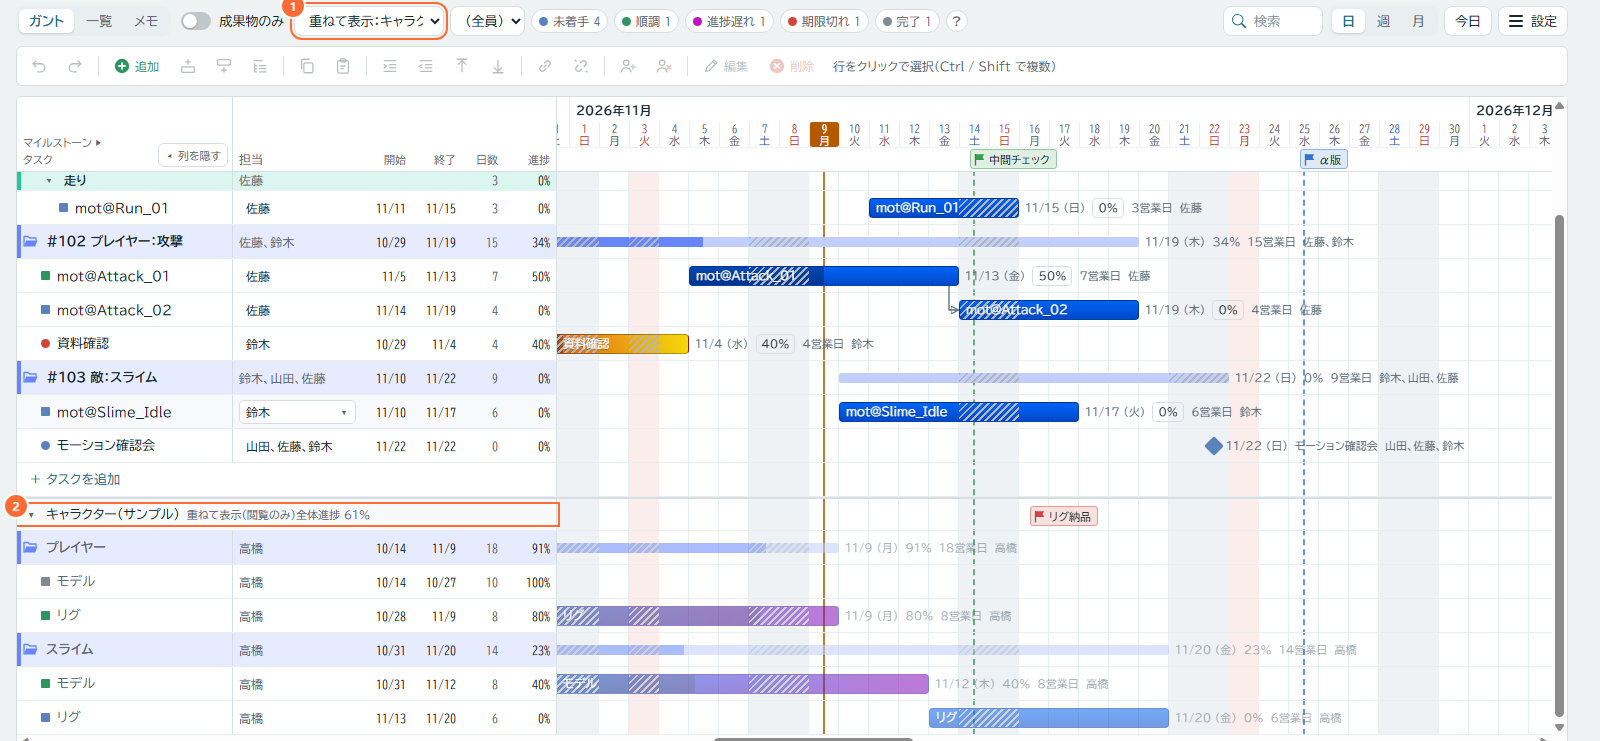
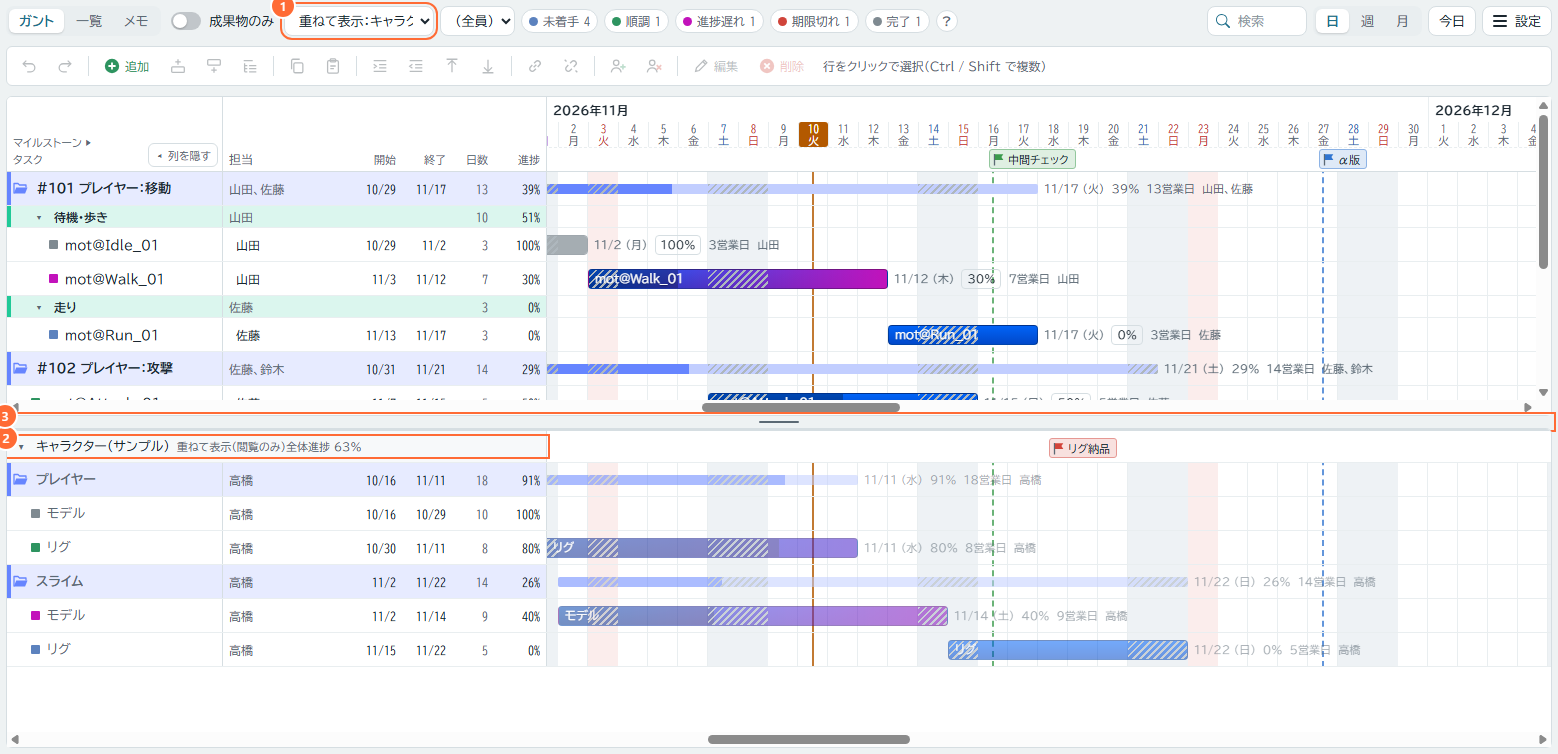
v0.0.16
from be76bc3

diff --git a/js/view.js b/js/view.js
@@ -168,11 +168,11 @@ function refRows(rp,all,rms,X,XH,dw){
 function render(){
   const p=projects[curId];if(p&&H(p.id).last==null)H(p.id).last=snap(p); // undo starts from the state first shown
   renderToolbar();renderTools();syncForm();
-  const chart=$("chart");
+  const chart=$("chart");if(!store||!p||view.memo)splitOn(false);
   if(!store){chart.innerHTML=`<div class="empty"><i class="spin"></i>読み込み中…</div>`;return}
   if(!p){chart.innerHTML=`<div class="empty"><div>プロジェクトがまだありません。</div><button class="btn pri" type="button" data-act="newproj">プロジェクトを作成</button></div>`;return}
   chart.classList.toggle("memo",view.memo);if(view.memo)return renderMemo(p);
-  const all=derive(p);
+  const all=derive(p);if(sel.size){const ids=new Set(all.map(r=>r.id));sel.forEach(id=>{if(!ids.has(id))sel.delete(id)})} // a kept selection (v0.0.16) whose task is gone
   const sc=view.scale, list=view.list, dw=sc==="day"?30:sc==="week"?12:4;
   const rp=list?null:refOf(),ra=rp?derive(rp):[],rms=(rp?.milestones||[]).filter(m=>m&&isDay(m.date));ra.forEach(r=>r.ref=1); // overlay (v0.0.10); r.ref: no progress button in lab()
   let mn=TODAY,mx=TODAY;[...all,...ra].forEach(r=>{mn=Math.min(mn,D(r.start));mx=Math.max(mx,D(r.end))});[...(p.milestones||[]),...rms].forEach(m=>{mn=Math.min(mn,D(m.date));mx=Math.max(mx,D(m.date))});
@@ -250,7 +250,6 @@ function render(){
       <div class="tl">${mark}</div></div>`;
   });
   if(!readOnly)rowsHtml+=`<div class="row addrow"><div class="lc" data-act="add"><div class="c-name" style="padding-left:12px">＋ タスクを追加</div></div><div class="tl"></div></div>`;
-  if(rp)rowsHtml+=refRows(rp,ra,rms,X,XH,dw);
 
   visOrder=vis;
   let lk="";const H0=75;
@@ -258,7 +257,9 @@ function render(){
     const x1=XH(A.h1+1),x2=XH(B.h0),up=B.i<A.i,y1=H0+A.y+(up?-10:10),y2=H0+B.y,xv=Math.min(x1-6,x2-10);
     lk+=`<path class="${B.h0<=A.h1?"bad":""}" d="M${xv} ${y1}V${y2}H${x2-1}" marker-end="url(#lk-arrow)"/>`;}));
   const linksSvg=lk?`<svg class="links" width="${tw}" height="${H0+rowY+RH}"><defs><marker id="lk-arrow" viewBox="0 0 10 10" refX="9" refY="5" markerWidth="6" markerHeight="6" orient="auto"><path d="M0 0L10 5L0 10z" fill="var(--ink2)" stroke="none"/></marker></defs>${lk}</svg>`:"";
-  const sl=chart.scrollLeft,st=chart.scrollTop;
+  const cr=$("chartRef"),sl=chart.scrollLeft,st=chart.scrollTop,st2=cr.scrollTop;splitOn(!!rp);
+  cr.classList.toggle("noid",!view.ids);cr.classList.toggle("narrow",!view.cols);
+  cr.innerHTML=rp?`<div class="grid" style="--tw:${tw}px;width:calc(var(--lc) + ${tw}px)"><div class="bgl" style="${bgStyle}">${bg}</div>${refRows(rp,ra,rms,X,XH,dw)}</div>`:""; // the lower pane: no date header, the upper one's is shared
   chart.classList.toggle("list",list); // 一覧: the same table without the timeline (tempo.css)
   chart.classList.toggle("noid",!view.ids);
   chart.classList.toggle("narrow",!view.cols); // ガント: 担当・開始・終了・日数・進捗 folded away, the task names only (v0.0.14)
@@ -266,9 +267,14 @@ function render(){
     <div class="bgl" style="${bgStyle}">${bg}</div>
     <div class="hdr"><div class="corner"><div class="c-name" style="flex:1;flex-direction:column;align-items:flex-start;gap:6px">${lockBar(p)}<small style="color:var(--ink2);font-size:11px">マイルストーン ▶</small>タスク</div><div class="c-fold"><button type="button" class="fold" data-cols title="${view.cols?"担当・開始・終了・日数・進捗の列を隠して、タイムラインを広くします":"担当・開始・終了・日数・進捗の列を表示します"}" aria-expanded="${view.cols}">${view.cols?"◂ 列を隠す":"列を表示 ▸"}</button></div><div class="c-as"><i class="lwh lwn" title="ドラッグでタスク列の幅を変更"></i>担当</div><div class="c-d">開始</div><div class="c-d">終了</div><div class="c-n" title="営業日">日数</div><div class="c-p">進捗</div><div class="c-id"><button type="button" class="tg" data-ids title="${view.ids?"ID の列を折りたたむ":"ID の列を表示"}" aria-label="ID の列の表示切り替え">${view.ids?"◂":"▸"}</button><span>ID</span></div><div class="c-st">状況</div><div class="c-done">完了</div><i class="lwh" title="ドラッグで幅を変更"></i></div><div class="ht" id="ht"><div class="band"></div>${top}${bot}${hint}${flags}</div></div>
     ${rowsHtml}${linksSvg}</div>`;
-  if(scrolledFor!==curId+sc+list){scrolledFor=curId+sc+list;scrollInitial()}else{chart.scrollLeft=sl;chart.scrollTop=st;whoGone()}
-  lockMove(chart);
+  if(scrolledFor!==curId+sc+list){scrolledFor=curId+sc+list;if(stPos){chart.scrollLeft=stPos[0];chart.scrollTop=stPos[1];cr.scrollTop=stPos[2];stPos=null}else scrollInitial()} // stPos: where it was before a reload / a switch of project (v0.0.16)
+  else{chart.scrollLeft=sl;chart.scrollTop=st;cr.scrollTop=st2}
+  cr.scrollLeft=chart.scrollLeft;whoGone();
+  lockMove(chart);stSave();
 }
+// overlay in two panes (v0.0.16): the lower pane and its divider show only while a project is overlaid on the chart; the upper pane's share is kept in mg.split
+const splitR=()=>{const v=+ls.get("mg.split");return v>=.15&&v<=.85?v:.5};
+function splitOn(on){const w=$("charts");w.classList.toggle("split",on);$("refBar").hidden=$("chartRef").hidden=!on;if(on){w.style.setProperty("--sp",splitR());$("refBar").setAttribute("aria-valuenow",Math.round(splitR()*100))}else $("chartRef").innerHTML=""}
 // the lock switch changed since the last drawing: lockBar drew its old state, now it moves
 function lockMove(c){const lb=c.querySelector(".sw.lock");if(lb&&lb.getAttribute("aria-pressed")!==lb.dataset.on){void lb.offsetWidth;lb.setAttribute("aria-pressed",lb.dataset.on)}}
 // today (or the project's start) about a quarter of the way into the visible timeline, so the days just before it show too (v0.0.13; was 120 px)
@@ -277,6 +283,6 @@ function scrollToToday(){if(!range)return;const c=$("chart");c.scrollLeft=Math.m
 function scrollInitial(){const p=projects[curId],o=p&&overall(p);if(!o||!o.rows.length||!range)return scrollToToday();
   const target=(TODAY>=o.mn-7&&TODAY<=o.mx+7)?TODAY:o.mn;$("chart").scrollLeft=Math.max(0,(target-range.a)*range.dw-lead());whoGone()}
 // a bar label whose start has scrolled away under the task table is hidden: half a label tells nothing (v0.0.13). Run after drawing and on scroll (ui.js)
-function whoGone(){const c=$("chart"),s=c.scrollLeft;c.querySelectorAll(".tl .who").forEach(w=>w.classList.toggle("gone",parseFloat(w.style.left)<s));
+function whoGone(){const c=$("chart"),s=c.scrollLeft,ps=[c,$("chartRef")];ps.forEach(p=>p.querySelectorAll(".tl .who").forEach(w=>w.classList.toggle("gone",parseFloat(w.style.left)<s)));
   // a month label / a bar's name sticks right of the task table (v0.0.14); where its month or bar shows too little of it, it would be cut: hidden too. Read all, then write
-  const e=c.querySelector(".corner")?.getBoundingClientRect().right;if(e==null)return;const ls=[...c.querySelectorAll("#ht .hc.top span,.tl .bl")],cut=ls.map(l=>l.getBoundingClientRect().left<e-1);ls.forEach((l,i)=>l.classList.toggle("gone",cut[i]))}
+  const e=c.querySelector(".corner")?.getBoundingClientRect().right;if(e==null)return;const ls=ps.flatMap(p=>[...p.querySelectorAll("#ht .hc.top span,.tl .bl")]),cut=ls.map(l=>l.getBoundingClientRect().left<e-1);ls.forEach((l,i)=>l.classList.toggle("gone",cut[i]))}

diff --git a/js/ui.js b/js/ui.js
@@ -1,6 +1,6 @@
 // Interactions: drawer forms, members, milestones, popups, context menu, drag & drop, selection, toolbar, keyboard.
 /* ---------- actions ---------- */
-function setCur(id){leaveTask();leaveMemo();log("project",{p:id});if(sh.mine&&sh.mine!==id)shEnd();lkArmed=false;lkWas="";view.q=$("qIn").value="";curId=id;ls.set("mg.cur",id||"");closeDrawer();render()}
+function setCur(id){leaveTask();leaveMemo();log("project",{p:id});if(sh.mine&&sh.mine!==id)shEnd();lkArmed=false;lkWas="";view.q=$("qIn").value="";stSave();curId=id;ls.set("mg.cur",id||"");stLoad();closeDrawer();render()} // stSave / stLoad: each project's folding, selection, scroll (v0.0.16)
 function newProject(){
   if(storeRO)return;
   const id=uid();projects[id]={id,name:"新しいプロジェクト",tasks:[]};setCur(id);save(projects[id]);openProject();
@@ -320,8 +320,19 @@ $("msDel").addEventListener("click",e=>{const b=e.currentTarget;if(!b.classList.
   const p=projects[curId];p.milestones=(p.milestones||[]).filter(v=>v.id!==msEdit.id);closeMs();save(p);toast("削除しました")});
 document.addEventListener("keydown",e=>{if(e.key==="Escape"&&!pop.hidden)closeMs()});
 document.addEventListener("pointerdown",e=>{if(!pop.hidden&&!pop.contains(e.target)&&!e.target.closest("#ht"))closeMs()});
-const chart=$("chart");
-let whoT=0;chart.addEventListener("scroll",()=>{if(!whoT)whoT=requestAnimationFrame(()=>{whoT=0;whoGone()})},{passive:true});
+const chart=$("chart"),chartRef=$("chartRef");
+let whoT=0,stT=0;const onScroll=(a,b)=>()=>{if(!b.hidden&&b.scrollLeft!==a.scrollLeft)b.scrollLeft=a.scrollLeft; // two panes (v0.0.16): left-right in step, up-down each on its own
+  if(!whoT)whoT=requestAnimationFrame(()=>{whoT=0;whoGone()});clearTimeout(stT);stT=setTimeout(stSave,300)}; // stSave: the scroll position is kept (v0.0.16)
+chart.addEventListener("scroll",onScroll(chart,chartRef),{passive:true});chartRef.addEventListener("scroll",onScroll(chartRef,chart),{passive:true});
+chartRef.addEventListener("click",e=>{const rt=e.target.closest("[data-rtg]");if(rt){const id=rt.dataset.rtg;refFold.has(id)?refFold.delete(id):refFold.add(id);render()}}); // the overlay's rows: folding is all they do
+// the divider between the two panes: drag = the upper pane's share (15–85 %), kept in this browser; double-click = half and half
+const refBar=$("refBar"),setSplit=r=>{r=Math.min(.85,Math.max(.15,r));ls.set("mg.split",String(r));$("charts").style.setProperty("--sp",r);refBar.setAttribute("aria-valuenow",Math.round(r*100))};
+refBar.addEventListener("pointerdown",e=>{if(e.button)return;refBar.setPointerCapture(e.pointerId);refBar.classList.add("on");e.preventDefault()});
+refBar.addEventListener("pointermove",e=>{if(!refBar.classList.contains("on"))return;const b=$("charts").getBoundingClientRect();setSplit((e.clientY-b.top)/b.height)});
+refBar.addEventListener("lostpointercapture",()=>refBar.classList.remove("on"));
+refBar.addEventListener("dblclick",()=>setSplit(.5));
+refBar.addEventListener("keydown",e=>{const d={ArrowUp:-.05,ArrowDown:.05}[e.key];if(d){e.preventDefault();setSplit(splitR()+d)}}); // without a drag (docs/ui-checklist.md)
+addEventListener("pagehide",stSave);
 chart.addEventListener("click",e=>{
   if(e.target.closest("[data-pg]"))return;
   if(e.target.closest("[data-cols]")){view.cols=!view.cols;ls.set("mg.cols",view.cols?"":"0");render();return} // ガント: fold / unfold 担当・開始・終了・日数・進捗
@@ -397,9 +408,9 @@ document.addEventListener("keydown",e=>{if(e.key==="Escape"&&pgEdit)closePg()});
 const ctx=$("ctxMenu");let ctxId=null;
 // a task icon held under the mouse for 0.2 s: the whole picture beside it (v0.0.12)
 let icoT=0;const icoOff=()=>{clearTimeout(icoT);$("icoPop").hidden=true};
-chart.addEventListener("mouseover",e=>{const i=e.target.closest(".ico");if(!i)return;icoOff();icoT=setTimeout(()=>{const c=imgs[i.dataset.img];if(!c?.url||!i.isConnected)return;const p=$("icoPop"),b=i.getBoundingClientRect();
-  p.firstChild.src=c.url;p.hidden=false;const ph=c.h*Math.min(1,256/c.w,256/c.h)+10;p.style.left=b.right+8+"px";p.style.top=Math.max(8,Math.min(innerHeight-ph-8,b.top+b.height/2-ph/2))+"px"},200)});
-chart.addEventListener("mouseout",e=>{if(e.target.closest(".ico"))icoOff()});
+const icoOver=e=>{const i=e.target.closest(".ico");if(!i)return;icoOff();icoT=setTimeout(()=>{const c=imgs[i.dataset.img];if(!c?.url||!i.isConnected)return;const p=$("icoPop"),b=i.getBoundingClientRect();
+  p.firstChild.src=c.url;p.hidden=false;const ph=c.h*Math.min(1,256/c.w,256/c.h)+10;p.style.left=b.right+8+"px";p.style.top=Math.max(8,Math.min(innerHeight-ph-8,b.top+b.height/2-ph/2))+"px"},200)};
+[chart,chartRef].forEach(c=>{c.addEventListener("mouseover",icoOver);c.addEventListener("mouseout",e=>{if(e.target.closest(".ico"))icoOff()})}); // the overlay's icons too
 chart.addEventListener("contextmenu",e=>{const o=e.target.closest("[data-open]");if(!o||readOnly||e.target.closest("input"))return;e.preventDefault();
   ctxId=o.dataset.open;if(!sel.has(ctxId))selectRow(ctxId);
   const r=derive(projects[curId]).find(x=>x.id===ctxId);$("ctxColor").hidden=!r?.parent; // 色 only for parents
@@ -638,7 +649,7 @@ function selectRow(id,e){
   else sel=new Set([id]);
   lastSel=id;delArmed=false;paintSel();
 }
-function paintSel(){document.querySelectorAll("#chart .row[data-id]").forEach(r=>r.classList.toggle("sel",sel.has(r.dataset.id)||r.dataset.id===editingId));renderTools()}
+function paintSel(){document.querySelectorAll("#chart .row[data-id]").forEach(r=>r.classList.toggle("sel",sel.has(r.dataset.id)||r.dataset.id===editingId));renderTools();stSave()}
 function blockEnd(ts,i){let j=i;while(j+1<ts.length&&(ts[j+1].level||0)>(ts[i].level||0))j++;return j}
 const deep=(ts,d)=>Math.max(...ts.map(t=>(t.level||0)+d))>3; // these tasks, moved d levels in, would pass the 4th level
 function selIdx(p){return p.tasks.map((t,i)=>sel.has(t.id)?i:-1).filter(i=>i>=0)}

diff --git a/guide.html b/guide.html
@@ -272,9 +272,10 @@ ol.steps>li{margin-bottom:6px}
 <p><b>成果物のタグの付け方</b>：タスクを選んで（複数可）右クリック →「成果物にする」。または編集パネルの「成果物」にチェック。子タスクの一括追加では「成果物として追加」に最初からチェックが入っています。</p>
 
 <h2 id="overlay">7. 重ねて表示</h2>
-<p>ほかのチームのプロジェクトを、自分のプロジェクトの下に<b>同じ日付の目盛りで</b>重ねて表示します。たとえばモーションのプロジェクトを開いてキャラクターのプロジェクトを重ねると、「リグがまだ終わっていないのにモーションを始める予定になっている」といったずれが見つかります。</p>
-<figure><img src="guide/overlay.png" alt="重ねて表示。1 重ねて表示のプルダウン、2 重ねたプロジェクトの見出し" width="1600" height="741" loading="lazy"><figcaption><span class="n">1</span>「重ねて表示」で相手のプロジェクトを選ぶ　<span class="n">2</span>見出しに名前と全体進捗。相手のマイルストーンもこの行に出ます</figcaption></figure>
+<p>ほかのチームのプロジェクトを、自分のプロジェクトの下に<b>同じ日付の目盛りで</b>並べて表示します。たとえばモーションのプロジェクトを開いてキャラクターのプロジェクトを重ねると、「リグがまだ終わっていないのにモーションを始める予定になっている」といったずれが見つかります。</p>
+<figure><img src="guide/overlay.png" alt="重ねて表示。1 重ねて表示のプルダウン、2 重ねたプロジェクトの見出し、3 上下の境目" width="1558" height="754" loading="lazy"><figcaption><span class="n">1</span>「重ねて表示」で相手のプロジェクトを選ぶ　<span class="n">2</span>見出しに名前と全体進捗。相手のマイルストーンもこの行に出ます　<span class="n">3</span>境目をドラッグして上下の高さを変える</figcaption></figure>
 <ul>
+  <li>画面が<b>上下に分かれ</b>、上が自分のプロジェクト、下が相手のプロジェクトです。上下それぞれ別にスクロールでき、左右（日付）のスクロールは一緒に動きます。境目はドラッグか、クリックして ↑↓ キーで動かせます（ダブルクリックで半分に戻ります）。高さは自分のブラウザに記憶されます。</li>
   <li>相手のタスクは薄い色で、<b>閲覧のみ</b>です（選択・編集・ドラッグはできません）。親タスクは折りたためます。見出しの ▾ で全体を折りたためます。</li>
   <li>「成果物のみ」をオンにすると、相手も成果物だけになります。担当者の絞り込み、状態ラベル、検索は相手には効きません。</li>
   <li>自分のプロジェクトの全体進捗や Excel には含まれません。「一覧」では表示されません。</li>

diff --git a/js/core.js b/js/core.js
@@ -57,6 +57,15 @@ const refOf=()=>{const id=refMap()[curId];return typeof id==="string"&&id!==curI
 const pendingIds=new Set(), timers={}, retry={}; // retry: id → saves of it that failed in a row (flush): the change stays on screen and is tried again
 let sel=new Set(), lastSel=null, clip=null, delArmed=false, lkArmed=false, lkWas=""; // lkArmed: someone else's lock pressed once; lkWas: the lock switch as last drawn ("true" / "false", view.js lockBar)
 let chain=Promise.resolve();
+/* page state per project, this browser only (v0.0.16): the folded parents (here and in the overlay), the selection and where the chart was scrolled —
+   back after a reload or a switch of project. mg.st.<project id> = {f, r, s, x, y, y2 (the overlay pane)}; not project data, so nobody else's screen changes and no lock is needed */
+let stPos=null; // scroll to put back on the project's first drawing
+function stLoad(){let o={};try{o=JSON.parse(ls.get("mg.st."+curId))||{}}catch(e){}const a=v=>Array.isArray(v)?v.map(String):[];
+  collapsed=new Set(a(o.f));refFold=new Set(a(o.r));sel=new Set(a(o.s));stPos=Number.isFinite(o.x)&&Number.isFinite(o.y)?[o.x,o.y,Number.isFinite(o.y2)?o.y2:0]:null}
+function stSave(){if(!curId||!store)return;let o={};try{o=JSON.parse(ls.get("mg.st."+curId))||{}}catch(e){}const c=$("chart");
+  if(!view.memo&&c.querySelector(".grid")){o.x=c.scrollLeft;o.y=c.scrollTop;if(!$("chartRef").hidden)o.y2=$("chartRef").scrollTop} // メモ scrolls its own page: keep the chart's
+  o.f=[...collapsed];o.r=[...refFold];o.s=[...sel];ls.set("mg.st."+curId,JSON.stringify(o))}
+stLoad();
 
 // share of the task's own workdays already past (to yesterday), 0–1
 function elapsed(t){return TODAY<D(t.start)?0:Math.min(1,bizH(hs(t),2*TODAY-1)/Math.max(.5,bizH(hs(t),he(t))))}
@@ -164,7 +173,7 @@ function onData(all){
     else{next[id]=p;if(h){h.last=snap(p);if(store===backends.local)h.u=[],h.r=[]}}}); // changed elsewhere: Ctrl+Z here must not take that change away. Not in the cloud: its echo of my own save may come back with keys in another order
   pendingIds.forEach(id=>{if(projects[id])next[id]=projects[id]; else delete next[id]});
   projects=next;
-  if(!projects[curId])curId=Object.keys(projects)[0]||null;
+  if(!projects[curId]){curId=Object.keys(projects)[0]||null;stLoad()}
   if(!busy())render();
 }
 // a short message at the bottom: read out by screen readers (role=status); a long one stays longer so it can be read through (v0.0.13: 3 s / 5 s)

diff --git a/Tempo.html b/Tempo.html
@@ -12,7 +12,7 @@
 
 <div class="app">
   <div class="topbar">
-    <div class="brand"><i aria-hidden="true"><b></b><b style="--n:1"></b><b style="--n:2"></b></i><span role="img" aria-label="Tempo"><b style="--n:3">T</b><b style="--n:4">e</b><b style="--n:5">m</b><b style="--n:6">p</b><b style="--n:7">o</b></span><small class="ver">v0.0.15</small></div>
+    <div class="brand"><i aria-hidden="true"><b></b><b style="--n:1"></b><b style="--n:2"></b></i><span role="img" aria-label="Tempo"><b style="--n:3">T</b><b style="--n:4">e</b><b style="--n:5">m</b><b style="--n:6">p</b><b style="--n:7">o</b></span><small class="ver">v0.0.16</small></div>
     <select id="projSel" aria-label="プロジェクト"></select>
     <div class="stats" id="stats"></div>
     <span class="spacer"></span>
@@ -74,7 +74,11 @@
     <button class="tb txt bad" type="button" data-cmd="del" title="削除（Delete を 2 回）" aria-label="削除"><svg viewBox="0 0 20 20"><circle cx="10" cy="10" r="8" fill="currentColor"/><path d="M7 7l6 6M13 7l-6 6" stroke="#fff" stroke-width="2"/></svg><span>削除</span></button>
     <span class="selinfo" id="selInfo"></span>
   </div>
-  <div class="chart" id="chart"><div class="empty"><i class="spin"></i>読み込み中…</div></div>
+  <div class="charts" id="charts">
+    <div class="chart" id="chart"><div class="empty"><i class="spin"></i>読み込み中…</div></div>
+    <div class="refbar" id="refBar" role="separator" aria-orientation="horizontal" aria-label="上下の境目" tabindex="0" title="ドラッグか ↑↓ キーで上下の高さを変更（ダブルクリックで半分に戻す）" hidden></div>
+    <div class="chart" id="chartRef" hidden></div>
+  </div>
 </div>
 
 <datalist id="members"></datalist>

diff --git a/css/tempo.css b/css/tempo.css
@@ -126,6 +126,14 @@ input[type="range"]{accent-color:var(--accent)}
 
 /* chart */
 .chart{flex:1;min-height:0;overflow:auto;background:var(--panel);border:1px solid var(--line);border-radius:6px;position:relative}
+/* overlay in two panes (v0.0.16, view.js splitOn): this project above, the overlaid one below, each scrolling up and down on its own; the divider sets the share (mg.split) */
+.charts{flex:1;min-height:0;display:flex;flex-direction:column}
+.charts.split>.chart{flex:var(--sp) 1 0;scrollbar-gutter:stable} /* the same width on both: their left-right scrolls stay in step */
+.charts.split>#chartRef{flex-grow:calc(1 - var(--sp))}
+.refbar{flex:none;height:12px;cursor:row-resize;touch-action:none;position:relative}
+.refbar::before{content:"";position:absolute;left:calc(50% - 20px);top:5px;width:40px;height:2px;border-radius:1px;background:var(--ink2)}
+.refbar:hover::before,.refbar.on::before,.refbar:focus-visible::before{background:var(--accent)}
+#chartRef .row.refhd{position:sticky;top:0;z-index:5;background:var(--panel)} /* the overlaid project's name stays in sight */
 .grid{position:relative;min-width:100%}
 .chart{--lc:var(--lw)}
 .chart.narrow:not(.list){--lc:max(160px,calc(var(--lw) - 324px))} /* 担当 130 + 開始・終了 50 + 日数 42 + 進捗 52 folded away (v0.0.14) */
